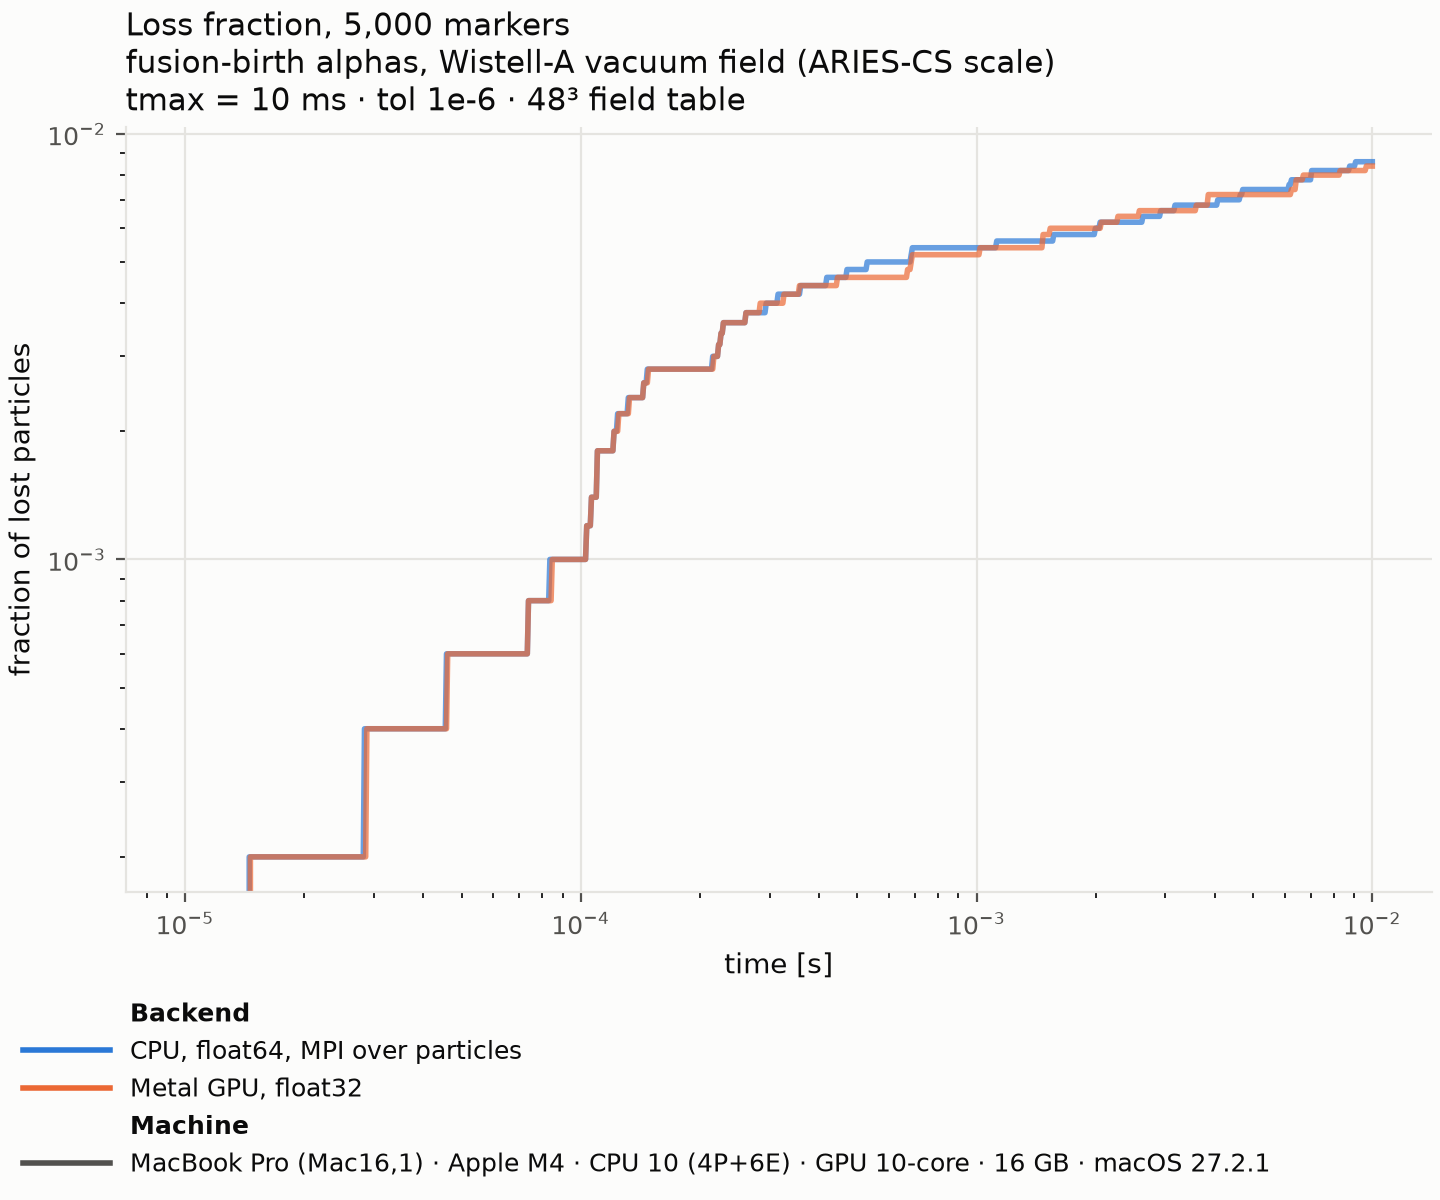
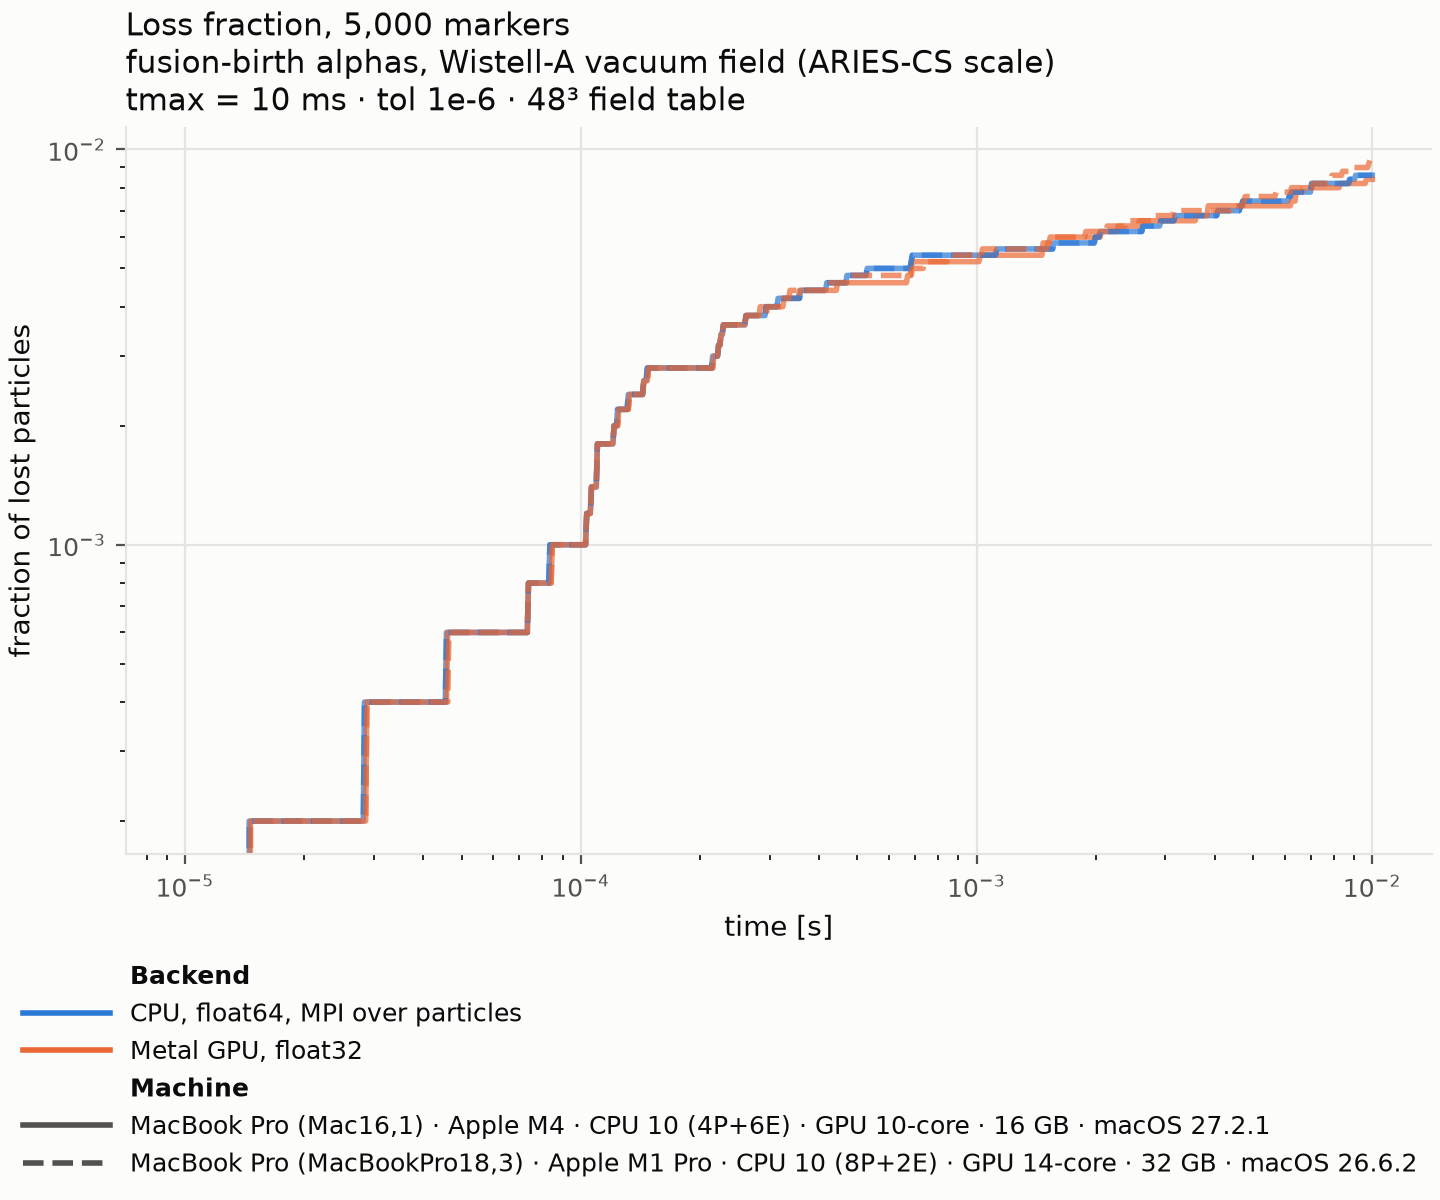
chore: plot the M1 Pro's -v2 runs beside the M4
Adds mczek's first runs of alpha-loss-wistell-a-v2 and conservation-qh-v2
(merged in cc7bd884) to the figures, the benchmark pages, and the README
at-a-glance table, which showed the M4 alone since 6a31bdb2.

Both ran on 6a31bdb2 with a clean tree and the M4's config, equilibrium,
and Metal-source fingerprints. His CPU legs are bitwise identical to the
M4's; his GPU legs differ in the last bits and pass the physics check
(43 / 47 alphas lost, CPU / GPU; conservation GPU drifts at a median
ratio x1.000 of the M4's). Speedups read 8.4x (alpha-loss validation,
181.4 s / 21.7 s) and 6.2x (conservation, at the GPU's best), against
the M4's 8.2x and 6.3x.

diff --git a/benchmarks/alpha-loss-wistell-a-v2.md b/benchmarks/alpha-loss-wistell-a-v2.md
@@ -17,6 +17,7 @@ first benchmark's page.
 | Machine | CPU ranks | 10,000 × 1 ms: CPU / GPU | Speedup | 5,000 × 10 ms: CPU / GPU | Speedup | Lost, CPU / GPU |
 | --- | --- | --- | --- | --- | --- | --- |
 | MacBook Pro (Mac16,1) · Apple M4 · CPU 10 (4P+6E) · GPU 10-core · 16 GB · macOS 27.2.1 | 10 | 31.5 s / 3.6 s | 8.7× | 159.6 s / 19.4 s | 8.2× | 43 / 42 |
+| MacBook Pro (MacBookPro18,3) · Apple M1 Pro · CPU 10 (8P+2E) · GPU 14-core · 32 GB · macOS 26.6.2 | 10 | 36.1 s / 4.0 s | 9.1× | 181.4 s / 21.7 s | 8.4× | 43 / 47 |
 <!-- markdownlint-enable MD013 -->
 <!-- /make_plots:summary -->
 
@@ -39,6 +40,7 @@ first benchmark's page.
 | Machine | CPU vs GPU | Reference GPU vs GPU | Reference CPU vs CPU | Check |
 | --- | --- | --- | --- | --- |
 | MacBook Pro (Mac16,1) · Apple M4 · CPU 10 (4P+6E) · GPU 10-core · 16 GB · macOS 27.2.1 | 7 fates differ (4 / 3), p 1; losses -2% (95% CI -13% to +10%); loss time ×1.002, p 0.027 | reference | reference | pass |
+| MacBook Pro (MacBookPro18,3) · Apple M1 Pro · CPU 10 (8P+2E) · GPU 14-core · 32 GB · macOS 26.6.2 | 10 fates differ (3 / 7), p 0.34; losses +9% (95% CI -7% to +20%); loss time ×1.002, p 0.0026 | 13 fates differ (4 / 9), p 0.27; losses +12% (95% CI -7% to +25%); loss time ×1.000, p 0.55 | identical | pass |
 <!-- markdownlint-enable MD013 -->
 <!-- /make_plots:physics -->
 

diff --git a/benchmarks/conservation-qh-v2.md b/benchmarks/conservation-qh-v2.md
@@ -17,6 +17,7 @@ those on the first benchmark's page.
 | Machine | CPU ranks | Best median drift, CPU | Best median drift, GPU | Tracing to the GPU's best, CPU / GPU | Speedup | With field builds |
 | --- | --- | --- | --- | --- | --- | --- |
 | MacBook Pro (Mac16,1) · Apple M4 · CPU 10 (4P+6E) · GPU 10-core · 16 GB · macOS 27.2.1 | 10 | 1.7e-07 (64³, tol 1e-10) | 1.9e-06 (32³, tol 1e-8) | 3.42 s (32³, tol 1e-8) / 0.55 s (32³, tol 1e-8) | 6.3× | 1.0× |
+| MacBook Pro (MacBookPro18,3) · Apple M1 Pro · CPU 10 (8P+2E) · GPU 14-core · 32 GB · macOS 26.6.2 | 10 | 1.7e-07 (64³, tol 1e-10) | 1.9e-06 (32³, tol 1e-8) | 4.10 s (32³, tol 1e-8) / 0.67 s (32³, tol 1e-8) | 6.2× | 0.8× |
 <!-- markdownlint-enable MD013 -->
 <!-- /make_plots:summary -->
 
@@ -36,6 +37,7 @@ time.*
 | Machine | GPU drifts vs reference GPU | CPU drifts vs reference CPU |
 | --- | --- | --- |
 | MacBook Pro (Mac16,1) · Apple M4 · CPU 10 (4P+6E) · GPU 10-core · 16 GB · macOS 27.2.1 | reference | reference |
+| MacBook Pro (MacBookPro18,3) · Apple M1 Pro · CPU 10 (8P+2E) · GPU 14-core · 32 GB · macOS 26.6.2 | median ratio ×1.000, p 0.00052 | identical |
 <!-- markdownlint-enable MD013 -->
 <!-- /make_plots:agreement -->
 

diff --git a/benchmarks/README.md b/benchmarks/README.md
@@ -13,6 +13,7 @@ from every contributor's Mac are filed here and plotted together.
 | Machine | Alpha losses: speedup, 5,000 × 10 ms | Alpha losses: GPU vs CPU markers lost (95% CI) | Conservation: best median drift, CPU / GPU | Conservation: speedup at the GPU's best (with builds) |
 | --- | --- | --- | --- | --- |
 | MacBook Pro (Mac16,1) · Apple M4 · CPU 10 (4P+6E) · GPU 10-core · 16 GB · macOS 27.2.1 | 8.2× | -2% (-13% to +10%) | 1.7e-07 / 1.9e-06 | 6.3× (1.0×) |
+| MacBook Pro (MacBookPro18,3) · Apple M1 Pro · CPU 10 (8P+2E) · GPU 14-core · 32 GB · macOS 26.6.2 | 8.4× | +9% (-7% to +20%) | 1.7e-07 / 1.9e-06 | 6.2× (0.8×) |
 <!-- markdownlint-enable MD013 -->
 <!-- /make_plots:at-a-glance -->
 
